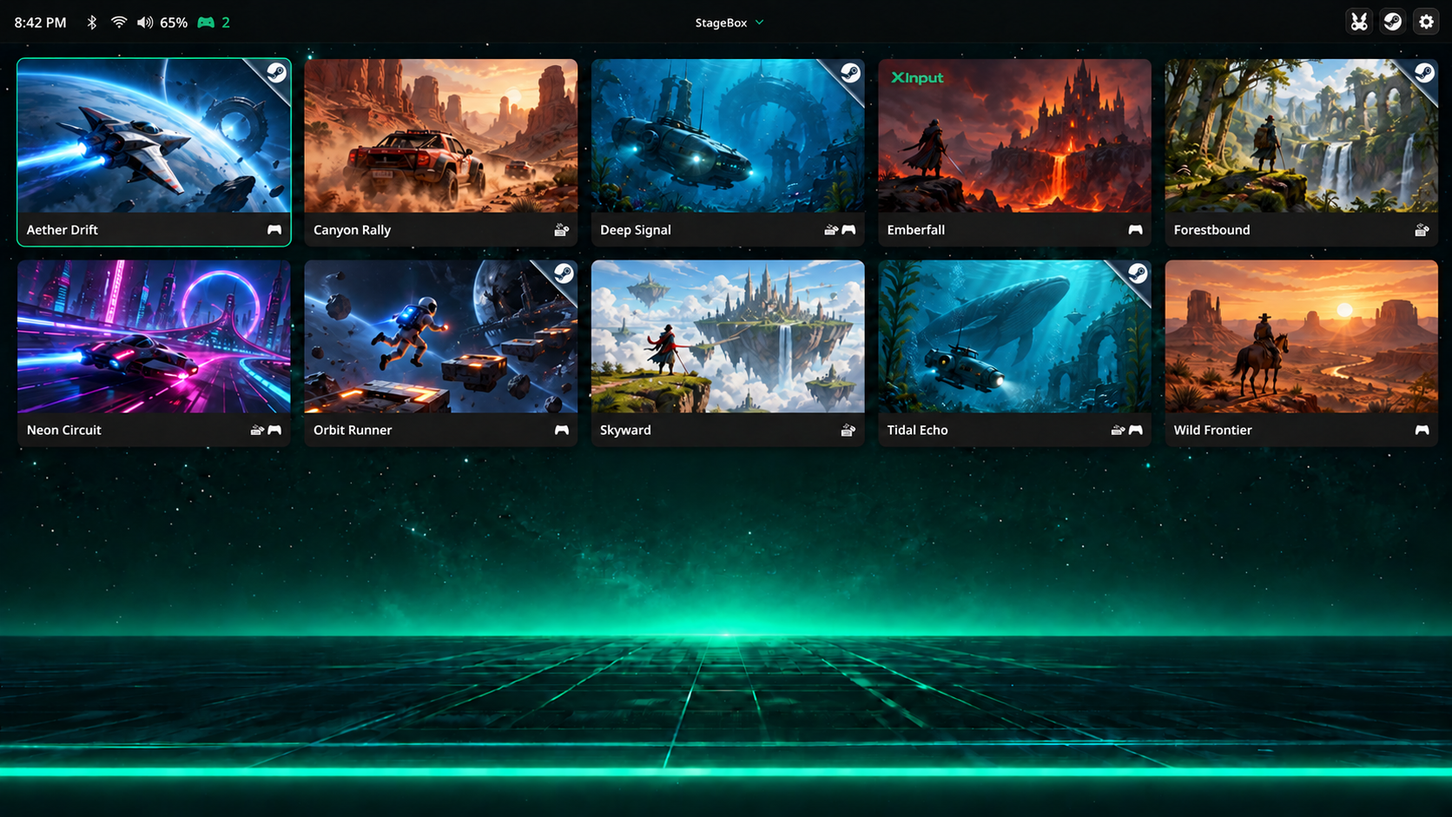
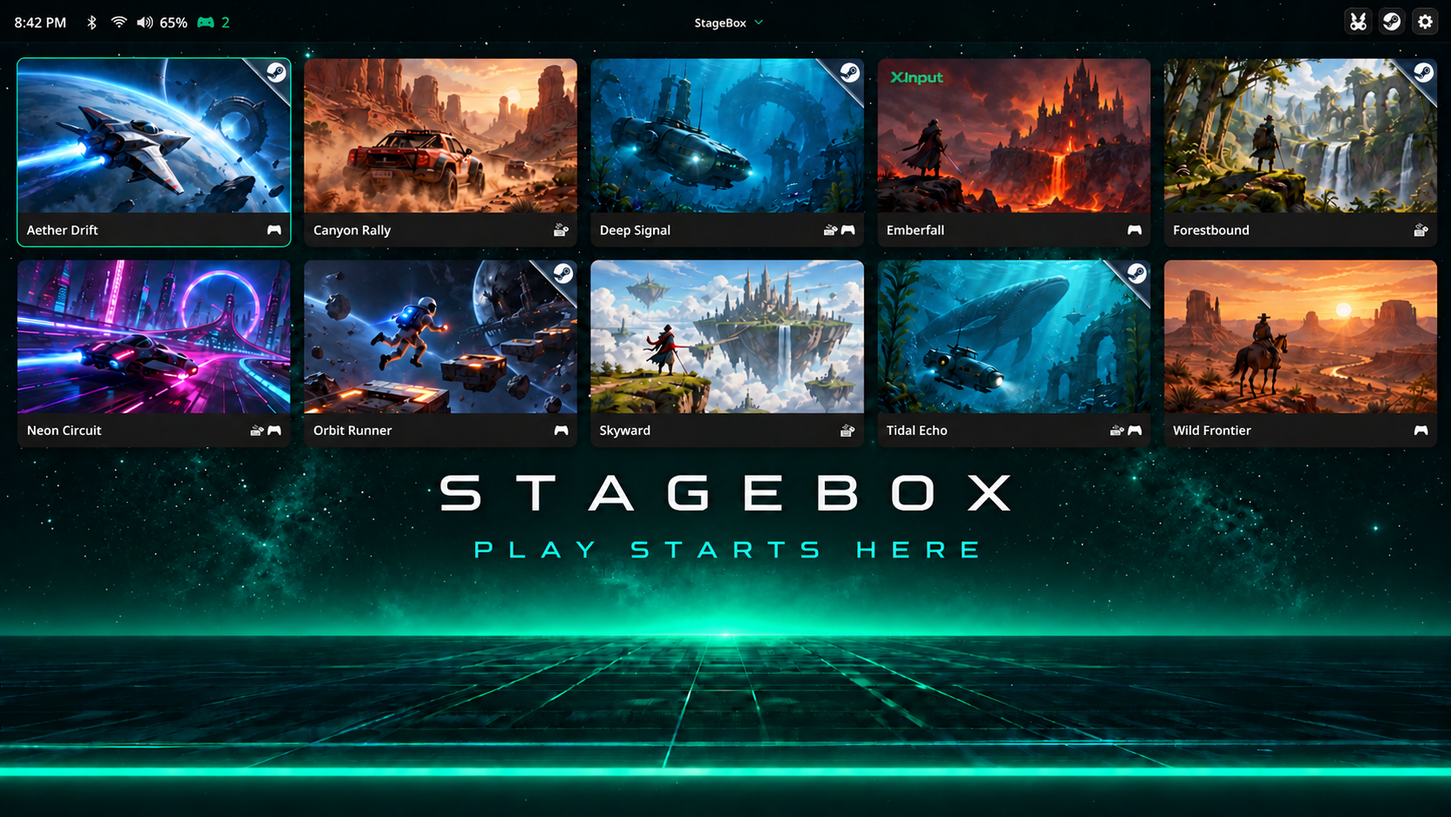
docs: add feature preview gallery and ignore local output

diff --git a/docs/images/feature-previews-prompts.md b/docs/images/feature-previews-prompts.md
@@ -1,0 +1,73 @@
+# Feature preview generation
+
+Generated with the built-in image_gen tool. Final PNGs are documentation illustrations, not Windows runtime screenshots. Example game/device data is fictional. UI previews use renders of the actual built frontend; folder/navigation/handoff diagrams and the settings montage explain the feature rather than adding app controls. The main preview uses frontend/src/assets/images/background-space.png as its authoritative wallpaper input.
+
+## stagebox-preview
+
+Output: docs/images/stagebox-preview.png
+
+Use case: compositing. Edit image 1, the existing StageBox fullscreen library preview. Image 2 is the actual repository wallpaper background-space.png and is the authoritative background insert. Replace only the wallpaper layer behind the interface with image 2, using the same centered cover scaling as the built application. Preserve the exact supplied starfield, emerald horizon and perspective grid, including the actual white widely spaced STAGEBOX title and turquoise PLAY STARTS HERE subtitle at their original positions. These letters may naturally be occluded by the second row of cards, but do not erase or relocate the lettering. Keep all ten cover images, game-card text, badges, dimensions, row/column positions, selected first-card border, upper toolbar and all icons unchanged. In particular retain the proper white gear in the rightmost upper-right Tools button, with teeth and central hole; never substitute a square. Preserve "8:42 PM", "65%", connected controller count "2", RetroBat/Steam icons and the dark translucent toolbar. No sidebars, footer, taskbar, device frame, added caption or invented functionality. Crisp flat front-view desktop UI illustration, landscape 16:9, no blur. The result remains a labeled illustrative preview with fictional games.
+
+## controllers
+
+Output: docs/images/feature-controllers.png
+
+Reference inputs: `/tmp/stagebox-reference-controllers.png`
+
+Use case: ui-mockup. Create a faithful StageBox documentation feature preview from the attached REAL built-interface reference screenshot. Topic: controller setup, mapping and diagnostics. Keep the existing centered dark emerald controller-test panel, the exact generic controller outline with unlettered face buttons, sticks, D-pad, triggers, shoulder buttons, Home, Back/Start, and the existing arrangement of controls and footer. Use the title "Living-room controller · test" (omit the example ID), the green "Move a control" readout, "Release controls", disabled "Test rumble", "Back to settings", collapsed "Input details", "Hold Select + Start (1s) to release." and the bottom-right X + "Close" button. Preserve text hierarchy, actual blank face-button positions and native rounded-rectangle dialog styling. Give the South face button and left stick a small cyan/emerald diagnostic highlight to communicate input testing; do not invent extra controller actions. Keep the dimmed/blurred library behind the panel with the emerald grid wallpaper. Crisp front-view 16:9 UI illustration, legible large panel, no external title, no annotations, no device frame, no sidebars. This is a labeled illustrative documentation preview with example data, not a hardware screenshot.
+
+## virtual-input
+
+Output: docs/images/feature-virtual-input.png
+
+Reference inputs: `/tmp/stagebox-reference-virtual-input.png`
+
+Use case: ui-mockup. Create a faithful StageBox documentation preview of optional Virtual Xbox input, based on the attached actual built-interface screenshot. Preserve the exact centered Game Options panel and real toggle: small emerald eyebrow "GAME OPTIONS", game title "Canyon Rally", bordered green toggle row titled "Virtual Xbox input for this game", explanatory copy "Also convert controllers saved as Native. Controllers saved as Virtual already use Xbox input.", green pill "On", X + "Close" button, and bottom "A · select   B · back" hint. Retain the dark translucent emerald styling, spacing and proper white close X. Behind it use the dimmed blurred StageBox library and emerald wallpaper. Tighten the framing slightly so the actual toggle panel reads clearly as a thumbnail, while retaining generous surrounding background. Do not add controller shopping art, download buttons, game installation buttons or nonexistent menus. Flat front-view crisp 16:9 desktop UI illustration, not a Windows screenshot. No new headings outside the panel and no watermark.
+
+## steam
+
+Output: docs/images/feature-steam.png
+
+Reference inputs: `/tmp/stagebox-reference-steam.png`, `/home/raven/DEVELOP/launcher/docs/images/stagebox-preview.png`
+
+Use case: ui-mockup. Make a faithful StageBox Steam/update documentation preview. Image 1 is the actual Steam-update dialog rendered from project code and is authoritative for UI layout. Image 2 supplies the polished fictional library covers and repository wallpaper beneath the dim overlay. Keep the actual centered landscape dialog: small dot + "STEAM UPDATE", large title "Aether Drift", message "An update is needed before you play.", three buttons labeled exactly "Open in Steam", "Update in Steam", "Back to launcher", and small hint "Choose an action · A / Enter · B / Esc to return". First button has the emerald focus ring. Use the blue space-flight art from Aether Drift as very dark subdued artwork inside the dialog, retaining strong text contrast. Behind it keep the dimmed StageBox library with its real Steam folded-corner card badges. No download percentages, no invented Install/Buy buttons, no Steam account data, no extra menus. Crisp 16:9 front-view desktop UI illustration, actual hierarchy and spacing preserved, no external heading or watermark. The sample game is fictional and the image will be labeled illustrative.
+
+## settings
+
+Output: docs/images/feature-settings.png
+
+Reference inputs: `/tmp/stagebox-reference-settings.png`, `/tmp/stagebox-reference-bluetooth.png`, `/tmp/stagebox-reference-wifi.png`
+
+Use case: ui-mockup. Create ONE 16:9 landscape documentation montage showing three StageBox settings features. Images 1, 2 and 3 are actual built-interface dialog references: Sound Settings, Bluetooth devices, Wi-Fi Networks. Make three evenly spaced cropped dialog previews side by side on one dark emerald backdrop, using the actual visual language and layouts from those images. This is an editorial montage of separate screens, not a new combined application dashboard. Left crop: "Sound Settings", volume slider at "65%", selected "TV speakers" row and "Wireless headset" row, proper small speaker glyph instead of the screenshot's missing-font square, Refresh and X Close controls. Middle crop: "Bluetooth devices", "Pair device" button, "Living-room controller" with green "Connected" badge, "Wireless headset" with "Paired" badge, real Bluetooth icon. Right crop: "Wi-Fi Networks", rows "Living room" and "Guest network" with "96% Saved" and "68% Secured", Refresh and X Close. Crop or scale each real dialog consistently so all three fit with generous margins and no overlap; some secondary fine print may be omitted, but do not invent controls or functionality. Maintain off-white readable labels, dark panels, subtle borders and emerald selection highlights. No devices, desktop taskbar, poster slogan, fake Add Network controls or account information. No watermark. The three separate feature previews should read clearly at thumbnail size.
+
+## first-session
+
+Output: docs/images/feature-first-session.png
+
+Reference inputs: `/home/raven/DEVELOP/launcher/docs/images/stagebox-preview.png`
+
+Use case: infographic-diagram. Create a polished 16:9 StageBox documentation preview explaining basic controller navigation. Input image is the actual-style StageBox library preview and should supply the exact game-card/toolbar language and emerald wallpaper. Composition: a large, faithful cropped view of the library occupying the upper two-thirds, with the first Aether Drift card visibly selected by its actual thin emerald outline. Below that view, in a clearly separated documentation legend (not a new application footer), show a simple neutral generic gamepad and three short readable labels with matching small control symbols: "D-pad / stick · Browse", "A · Play", "B · Back". Use the same near-black emerald background, off-white text and restrained green accents. Keep the main interface toolbar's proper white gear at upper right and no missing-font squares. The library view contains fictional example covers as in the reference. Do not add new menu buttons, a sidebar, player avatars, software features or a desktop taskbar. Make it clear visually that the controller legend is explanatory artwork outside the app, not shipped interface. Crisp friendly front-view instructional illustration, no watermark, no long paragraphs.
+
+## game-library
+
+Output: docs/images/feature-game-library.png
+
+Reference inputs: `/home/raven/DEVELOP/launcher/docs/images/stagebox-preview.png`
+
+Use case: infographic-diagram. Make a clear 16:9 documentation illustration explaining how StageBox adds a local game. Use the supplied StageBox preview as visual language and the "Canyon Rally" fictional racing cover as the card reference. On the left, show one clean Windows-style folder diagram labeled "C:\games\Canyon Rally", with exactly three visible file rows: "lc.json", "Game.exe", "cover.jpg". The lc.json row can have a small braces-file symbol. On the right, show the actual-style Canyon Rally landscape game card with its desert racing art, title in a dark lower strip and a small keyboard/controller support icon. Draw one restrained emerald arrow from the folder to the card, showing that a local launch file puts the game into the library. Small explanatory caption: "Your game folder → your StageBox library". This is documentation artwork, NOT an app screenshot: do not invent an in-app file browser, Add Game button, upload dialog, importer wizard or software controls that do not exist. No Steam folded-corner badge on this local card. Use near-black emerald atmosphere and a hint of the repository's perspective-grid wallpaper; generous clear spacing, crisp legible labels, friendly practical design, no watermark.
+
+## retrobat
+
+Output: docs/images/feature-retrobat.png
+
+Reference inputs: `/home/raven/DEVELOP/launcher/docs/images/stagebox-preview.png`
+
+Use case: infographic-diagram. Create one friendly 16:9 StageBox feature illustration explaining the RetroBat handoff. Use the supplied StageBox library preview as the exact source for its dark emerald palette, game-card styling and RetroBat shortcut logo (the white arcade-controller/bat silhouette at the top-right, to the LEFT of the Steam button). Composition: three clear steps across the image. Left: a small faithful StageBox library view labeled "StageBox". Center: a larger separate RetroBat destination tile with that white RetroBat emblem, the word "RetroBat" and a small tasteful abstract 8-bit arcade motif; do NOT invent an actual RetroBat menu screenshot, specific emulator controls, commercial game characters, or ROM cards inside StageBox. Right: a small StageBox library view again labeled "Back to StageBox". Connect left to center and center to right with restrained emerald arrows. Beneath the first arrow label "Open RetroBat"; beneath the second label "Quit RetroBat". Main caption at bottom: "Your retro collection, one button away". Keep the source library's proper gear icon and Steam/RetroBat button order. The separate destination tile must clearly represent another frontend, not a new StageBox library section. Flat front-view documentation artwork, clear large type, original symbolic pixel art only, background based on the supplied emerald space/grid artwork. No added app functionality, no watermarks.
+
+## steam
+
+Output: docs/images/feature-steam.png
+
+Reference inputs: `/home/raven/DEVELOP/launcher/docs/images/feature-steam.png`
+
+Use case: precise-object-edit. Edit the attached StageBox Steam feature illustration. Correct ONLY the small missing-glyph square in the rightmost Tools button at the top-right of the background toolbar: replace it with a proper white gear/cog with visible teeth and a center hole, matching the neighboring icon weight and button size. Retain the dimmed backdrop treatment. Do not change the Steam update dialog, titles, buttons, Aether Drift cover, fictional library, spacing, colors, any other icon, or any other content. The result must otherwise match the supplied illustration exactly.

diff --git a/CODEX.md b/CODEX.md
@@ -1,5 +1,13 @@
 # Project Guide
 
+## Feature previews and ignored output (October 30, 2026)
+
+- README's Make it yours links now each have a clickable 220px preview; the same image opens its matching guide. Seven documentation PNGs under `docs/images/feature-*.png` cover first-session controls, local-game folders, controller diagnostics/remapping, virtual Xbox input, Steam updates, RetroBat handoff and settings. All are built-in image_gen illustrations with fictional data, labeled in README and guides; diagram annotations and the three-settings montage are not new app controls.
+- Main `docs/images/stagebox-preview.png` uses `frontend/src/assets/images/background-space.png` as its actual wallpaper composition input, retaining the STAGEBOX/PLAY STARTS HERE branding. Keep the proper Tools gear (including in Steam preview); do not use the missing-font square from Linux reference renders.
+- `docs/images/feature-previews-prompts.md` records all feature-generation prompts, the wallpaper pass and Steam gear correction; `docs/ARTWORK.md` inventories the new documentation assets separately from runtime images. Real dialog layout references were captured from the existing built frontend through temporary example-data fixtures outside Git. No production code or runtime images were changed.
+- `/output/` is ignored and untracked per owner instruction. Its local SN30 Pro+ override example is preserved on disk; old references in historical notes below do not mean it is a distributed source file. Do not add output artifacts back to Git. Existing Git history is preserved.
+- Verification: visually reviewed all eight final documentation images (main plus seven feature previews), including the correct Tools gear and real dialog labels. All 133 local documentation links/image targets/anchors and Git whitespace checks pass; `git ls-files output` is empty and the local override remains on disk. No tests run; only documentation imagery, Markdown and ignore/tracking state changed.
+
 ## User documentation and preview (October 30, 2026)
 
 - `README.md` is the short user-facing introduction: controller-first library, automatic installed Steam games, Steam/RetroBat shortcuts, everyday settings and condensed Windows setup. Keep tool installation, config schemas, controller/backend limits and session internals in `docs/`.
@@ -21,7 +29,7 @@
 ### Active artwork cleanup (October 30, 2026)
 
 - Per the owner, remove artwork not actually used by the launcher/build. Source tracing identified 12 retained images through JS imports, CSS URLs, HTML, Go embed and Makefile inputs; removed 19 unused image/font/license/preview/prompt files (8.84 MiB). No active asset was replaced or redesigned.
-- Consolidated generation prompts for the active Space Launch wallpapers and XInput wordmark into `docs/ARTWORK.md`. Keep the SN30 Pro+ mapping example under output; it is unrelated to artwork cleanup. Removed unused Nunito packaging from `tools/package_notices.py`; include the artwork inventory in releases beside notices.
+- Consolidated generation prompts for the active Space Launch wallpapers and XInput wordmark into `docs/ARTWORK.md`. The SN30 Pro+ mapping example remains local under ignored output after the owner's follow-up cleanup; it is no longer tracked. Removed unused Nunito packaging from `tools/package_notices.py`; include the artwork inventory in releases beside notices.
 - Preserve Git history as requested: deleted artwork remains available in old commits. Earlier verification notes mentioning removed alternatives are historical. No tests run; ask the owner to check library/loading backgrounds, app icon, topbar icons, card control badges, virtual-input wordmark and controller diagrams on Windows.
 - Cleanup verification: frontend production build passes with all active imports preserved; packaging copied 47 notice/inventory files into `/tmp/stagebox-public-notices-without-font`; all 12 retained image filenames have source/build references. Git whitespace checks pass. No tests or Windows runtime checks run.
 
@@ -52,7 +60,7 @@ The project is Windows-focused at runtime, but many platform-specific tools have
 - `steam.go`: Wails-bound `OpenSteam` action, installed-Steam client session flow, card config/internet/update preflight, ID/phase-checked `SteamLaunchAction` update choices and `SteamUpdateStates` polling API, executable discovery wrapper, and installer download/start helpers, including the installer URL. Shared Steam discovery lives in `internal/games`; `focusAfterSteamSession` settles native foreground ownership after both Steam game card and topbar Big Picture sessions.
 - `retrobat.go`: Wails-bound `OpenRetroBat`, installed frontend session handoff, and Steam-style official installer download/start helpers. Shared install discovery and native session tracking live in `internal/games/retrobat_*`.
 - `assets`: root-level project assets. `loading-space.png` is the embedded Space Launch native fallback wallpaper; `app-icon.png` is the default StageBox executable icon source. Unused alternatives and legacy sources were removed during public-repository cleanup.
-- `output`: retains the verified SN30 Pro+ mapping example only. Unused design previews, duplicate wallpaper and old prompts were removed; prompts for active generated artwork were consolidated into `docs/ARTWORK.md`.
+- `output`: ignored local scratch/output directory, not part of the tracked source. Existing local mapping examples are preserved; do not commit this directory. Active runtime-art prompts are in `docs/ARTWORK.md`, and public documentation images/prompts are under `docs/images`.
 - `docs/ARTWORK.md`: inventory of all 12 retained runtime/build images, known origins and generation prompts. The unused Nunito font was removed; the UI uses system fonts. Earlier image/icon design notes in this guide describe history, not additional current assets.
 - `build/appicon.png`: ignored Wails executable icon input. The Makefile `app-icon` target copies it from `APP_ICON` (default `assets/app-icon.png`) before Wails builds, then Wails regenerates the Windows icon resource during `make build-win`/`make release`.
 - `internal/assets`: runtime asset helpers, including embedded asset extraction, thumbnail cache path, and Wails thumbnail HTTP handler.

diff --git a/README.md b/README.md
@@ -45,15 +45,18 @@ walks through that. Start with the regular app setup first.
 
 ## Make it yours
 
-| What would you like to do? | Guide |
+| Preview | Make it yours |
 | --- | --- |
-| Learn the controls | [Your first session](docs/getting-started.md) |
-| Add games outside Steam | [Your game library](docs/game-library.md) |
-| Set up or remap a controller | [Controllers](docs/features/controllers.md) |
-| Use Xbox-style input | [Virtual Xbox input](docs/features/virtual-input.md) |
-| Find Steam games and handle updates | [Steam](docs/features/steam.md) |
-| Open your retro collection | [RetroBat](docs/features/retrobat.md) |
-| Pair devices, change sound or connect Wi-Fi | [Settings](docs/features/settings.md) |
+| [<img src="docs/images/feature-first-session.png" alt="Browse the library with a controller" width="220">](docs/getting-started.md) | **Learn the controls**<br>[Your first session](docs/getting-started.md) |
+| [<img src="docs/images/feature-game-library.png" alt="A local game folder becomes a library card" width="220">](docs/game-library.md) | **Add games outside Steam**<br>[Your game library](docs/game-library.md) |
+| [<img src="docs/images/feature-controllers.png" alt="Controller mapping and input diagnostics" width="220">](docs/features/controllers.md) | **Set up or remap a controller**<br>[Controllers](docs/features/controllers.md) |
+| [<img src="docs/images/feature-virtual-input.png" alt="Virtual Xbox input in Game Options" width="220">](docs/features/virtual-input.md) | **Use Xbox-style input**<br>[Virtual Xbox input](docs/features/virtual-input.md) |
+| [<img src="docs/images/feature-steam.png" alt="Steam update choices in StageBox" width="220">](docs/features/steam.md) | **Find Steam games and handle updates**<br>[Steam](docs/features/steam.md) |
+| [<img src="docs/images/feature-retrobat.png" alt="Open RetroBat and return to StageBox" width="220">](docs/features/retrobat.md) | **Open your retro collection**<br>[RetroBat](docs/features/retrobat.md) |
+| [<img src="docs/images/feature-settings.png" alt="Separate Sound, Bluetooth and Wi-Fi settings previews" width="220">](docs/features/settings.md) | **Pair devices, change sound or connect Wi-Fi**<br>[Settings](docs/features/settings.md) |
+
+*Illustrative previews with example data. Diagrams and the settings montage explain
+separate actions/screens; click a preview to open its guide.*
 
 Looking for something else? Visit the [documentation hub](docs/README.md),
 check [troubleshooting](docs/troubleshooting.md), or [tell us what happened](https://github.com/aetoledano/stagebox/issues).

diff --git a/docs/ARTWORK.md b/docs/ARTWORK.md
@@ -39,10 +39,32 @@ temporary documentation fixture. Its game names/covers and device status are
 fictional examples. It depicts the current layout with Windows-style status
 glyphs, but is an AI-assisted illustration rather than a Windows screenshot.
 The owner requested a follow-up correction replacing the top-right fallback
-square with the proper Tools gear icon. The final prompt and correction are
-recorded in `docs/images/stagebox-preview-prompt.md` in the source repository.
-The image and prompt are documentation-only and are not embedded in the app or
-included in the Windows binary bundle.
+square with the proper Tools gear icon. A later composition pass uses the actual
+`frontend/src/assets/images/background-space.png` as its wallpaper input. The
+original prompt/correction are in `docs/images/stagebox-preview-prompt.md`; the
+wallpaper pass and new feature prompts are in `docs/images/feature-previews-prompts.md`.
+The images and prompts are documentation-only and are not embedded in the app
+or included in the Windows binary bundle.
+
+## Feature guide previews
+
+Seven built-in image_gen illustrations accompany the README's Make it yours
+links and their detailed guides:
+
+| File under `docs/images/` | Purpose / reference |
+| --- | --- |
+| `feature-first-session.png` | Controller navigation legend alongside the example library |
+| `feature-game-library.png` | Local game folder/launch-file to library-card diagram; no in-app import wizard |
+| `feature-controllers.png` | Real rendered controller diagnostics panel with illustrative input highlights |
+| `feature-virtual-input.png` | Real rendered native Game Options toggle |
+| `feature-steam.png` | Real rendered Steam update choices; fictional game art; corrected Tools gear |
+| `feature-retrobat.png` | Symbolic external-frontend handoff and return; not an invented RetroBat screenshot |
+| `feature-settings.png` | Montage based on separate actual Sound, Bluetooth and Wi-Fi dialogs |
+
+The native-dialog references were captured with temporary example-data fixtures
+outside the repository; no production Windows backend or hardware was run.
+All previews are labeled illustrative. They retain existing product/brand
+identification and use fictional game art rather than downloaded game covers.
 
 ## Space Launch loading wallpaper generation prompt
 

diff --git a/docs/features/controllers.md b/docs/features/controllers.md
@@ -2,6 +2,10 @@
 
 [Documentation](../README.md) · [StageBox](../../README.md)
 
+![Controller mapping and input diagnostics](../images/feature-controllers.png)
+
+*Illustrative preview with example data, based on the current interface.*
+
 Connect your controller and use the D-pad or left stick to browse. Tap A to launch a selected game; hold A on a local-game card for its input options. Use **Tools → Controllers** for saved defaults, mapping and diagnostics.
 
 Choose **Native** when your games already support the controller, or **Virtual Xbox** when they need Xbox-style input. See [Virtual Xbox input](virtual-input.md) for setup and limits.

diff --git a/docs/features/steam.md b/docs/features/steam.md
@@ -2,6 +2,10 @@
 
 [Documentation](../README.md) · [StageBox](../../README.md)
 
+![Steam update choices in StageBox](../images/feature-steam.png)
+
+*Illustrative preview with example data, based on the current interface.*
+
 Your installed Steam games join the StageBox library automatically, including games on other Steam library drives. Pick a game from the same grid as your other games, or use the Steam button for Big Picture.
 
 After installing or removing a Steam game, choose **Tools → Reload Games**. Steam still handles sign-in, updates and first-run setup. Direct Steam game-card launches currently require internet access.

diff --git a/docs/features/virtual-input.md b/docs/features/virtual-input.md
@@ -2,6 +2,10 @@
 
 [Documentation](../README.md) · [StageBox](../../README.md)
 
+![Virtual Xbox input in Game Options](../images/feature-virtual-input.png)
+
+*Illustrative preview with example data, based on the current interface.*
+
 Some games work best with an Xbox controller. StageBox can present a compatible non-XInput pad as a virtual Xbox controller, using the default you save for that controller.
 
 This is optional and needs one-time driver setup plus administrator approval for virtual-device sessions. Start with [controller settings](controllers.md) and the [Windows installation guide](../installation.md).

diff --git a/docs/features/retrobat.md b/docs/features/retrobat.md
@@ -2,6 +2,10 @@
 
 [Documentation](../README.md) · [StageBox](../../README.md)
 
+![Open RetroBat and return to StageBox](../images/feature-retrobat.png)
+
+*Guide illustration with fictional example games; annotations are not app controls.*
+
 Open RetroBat from the top bar, play through its EmulationStation library, then quit RetroBat to return to StageBox. RetroBat manages the emulators, ROMs and its own controller settings. StageBox opens the frontend rather than importing ROMs into its game grid.
 
 ## Setup and session behavior

diff --git a/docs/game-library.md b/docs/game-library.md
@@ -2,6 +2,10 @@
 
 [Documentation](README.md) · [StageBox](../README.md)
 
+![A local game folder becomes a library card](images/feature-game-library.png)
+
+*Guide illustration with fictional example games; annotations are not app controls.*
+
 Installed Steam games appear automatically. For other Windows games, add a small `lc.json` file alongside each game to tell StageBox what to launch and which cover to show.
 
 StageBox scans the immediate subfolders under `gamesRoot`. Each game folder must contain an `lc.json` file.

diff --git a/docs/getting-started.md b/docs/getting-started.md
@@ -2,6 +2,10 @@
 
 [Documentation](README.md) · [StageBox](../README.md)
 
+![Browse the library with a controller](images/feature-first-session.png)
+
+*Guide illustration with fictional example games; annotations are not app controls.*
+
 Once StageBox is running on Windows, connect a controller and pick a game. [Installed Steam games](features/steam.md) appear automatically; [other local games](game-library.md) need a small launch file.
 
 1. Open StageBox and let your library load.

diff --git a/docs/features/settings.md b/docs/features/settings.md
@@ -2,6 +2,10 @@
 
 [Documentation](../README.md) · [StageBox](../../README.md)
 
+![Separate Sound, Bluetooth and Wi-Fi settings previews](../images/feature-settings.png)
+
+*Illustrative montage of separate Sound, Bluetooth and Wi-Fi screens with example data.*
+
 Open the gear-shaped **Tools** button in the top bar to reach everyday settings.
 The library's game cards remain inactive while a settings dialog is open.
 
